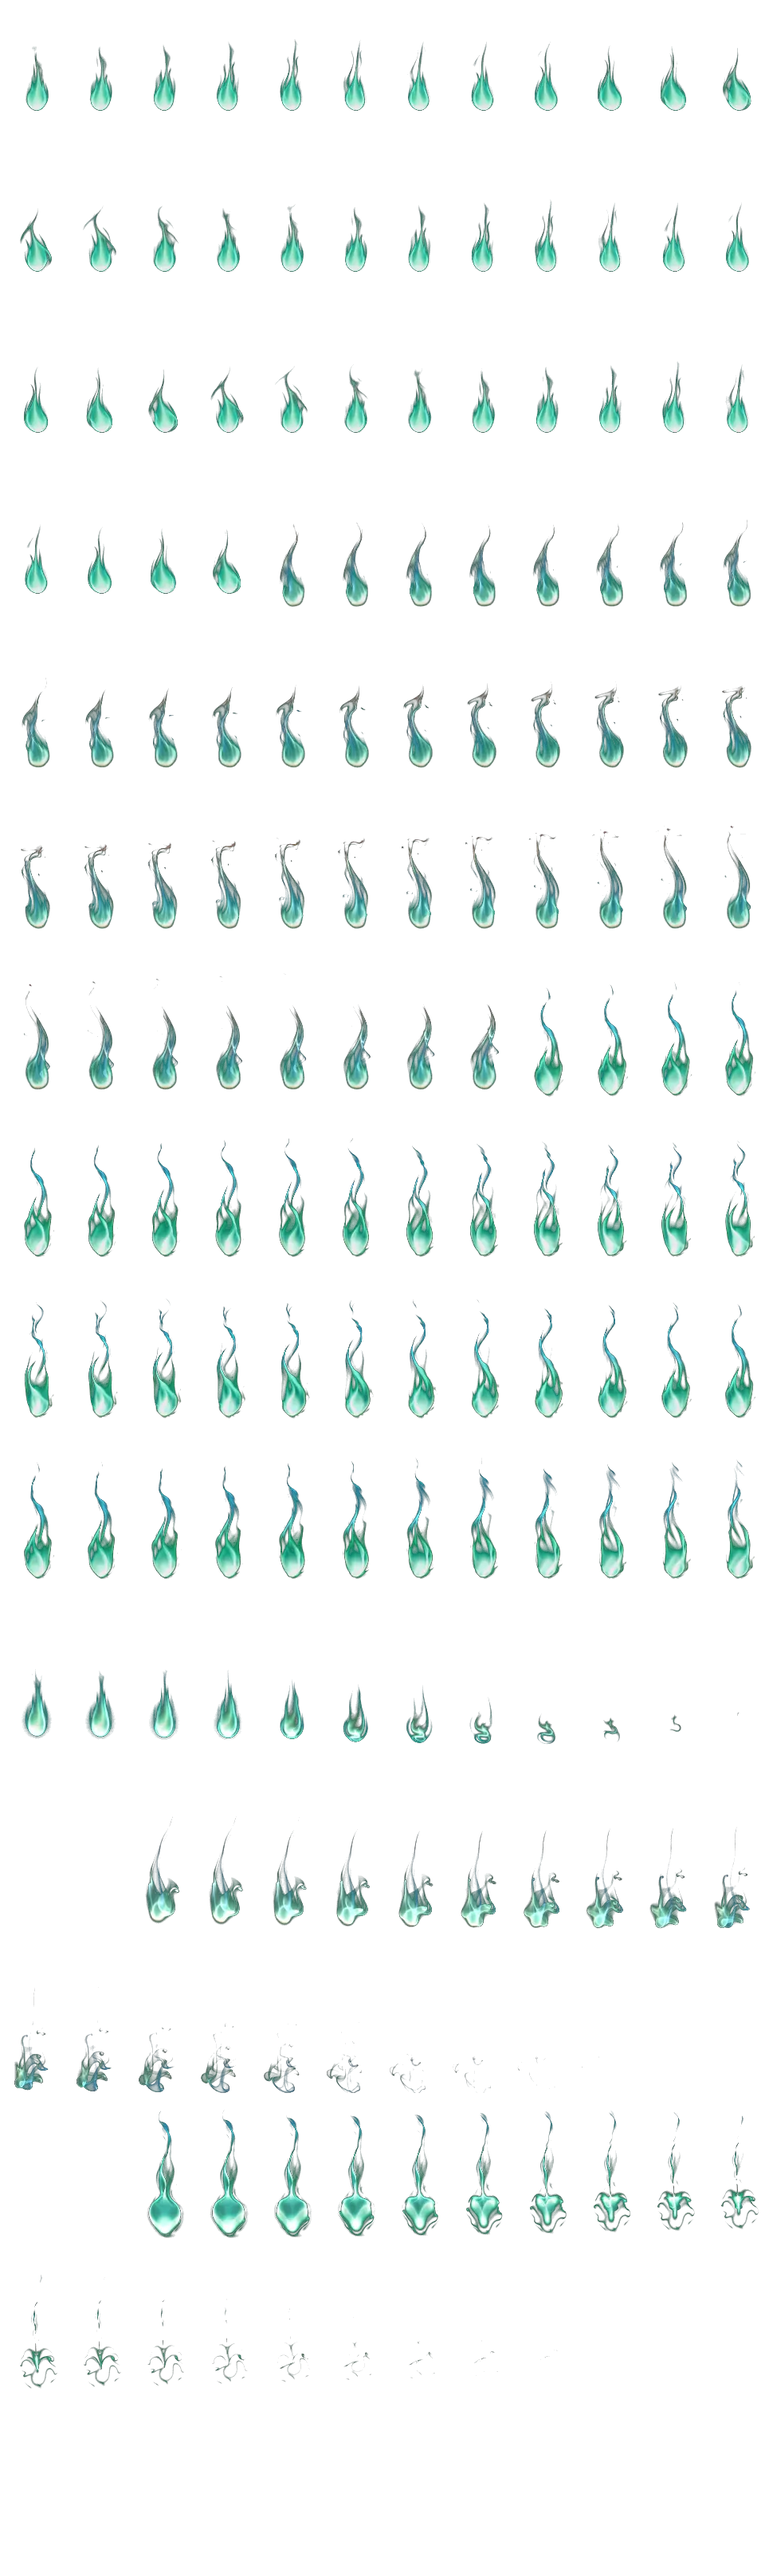
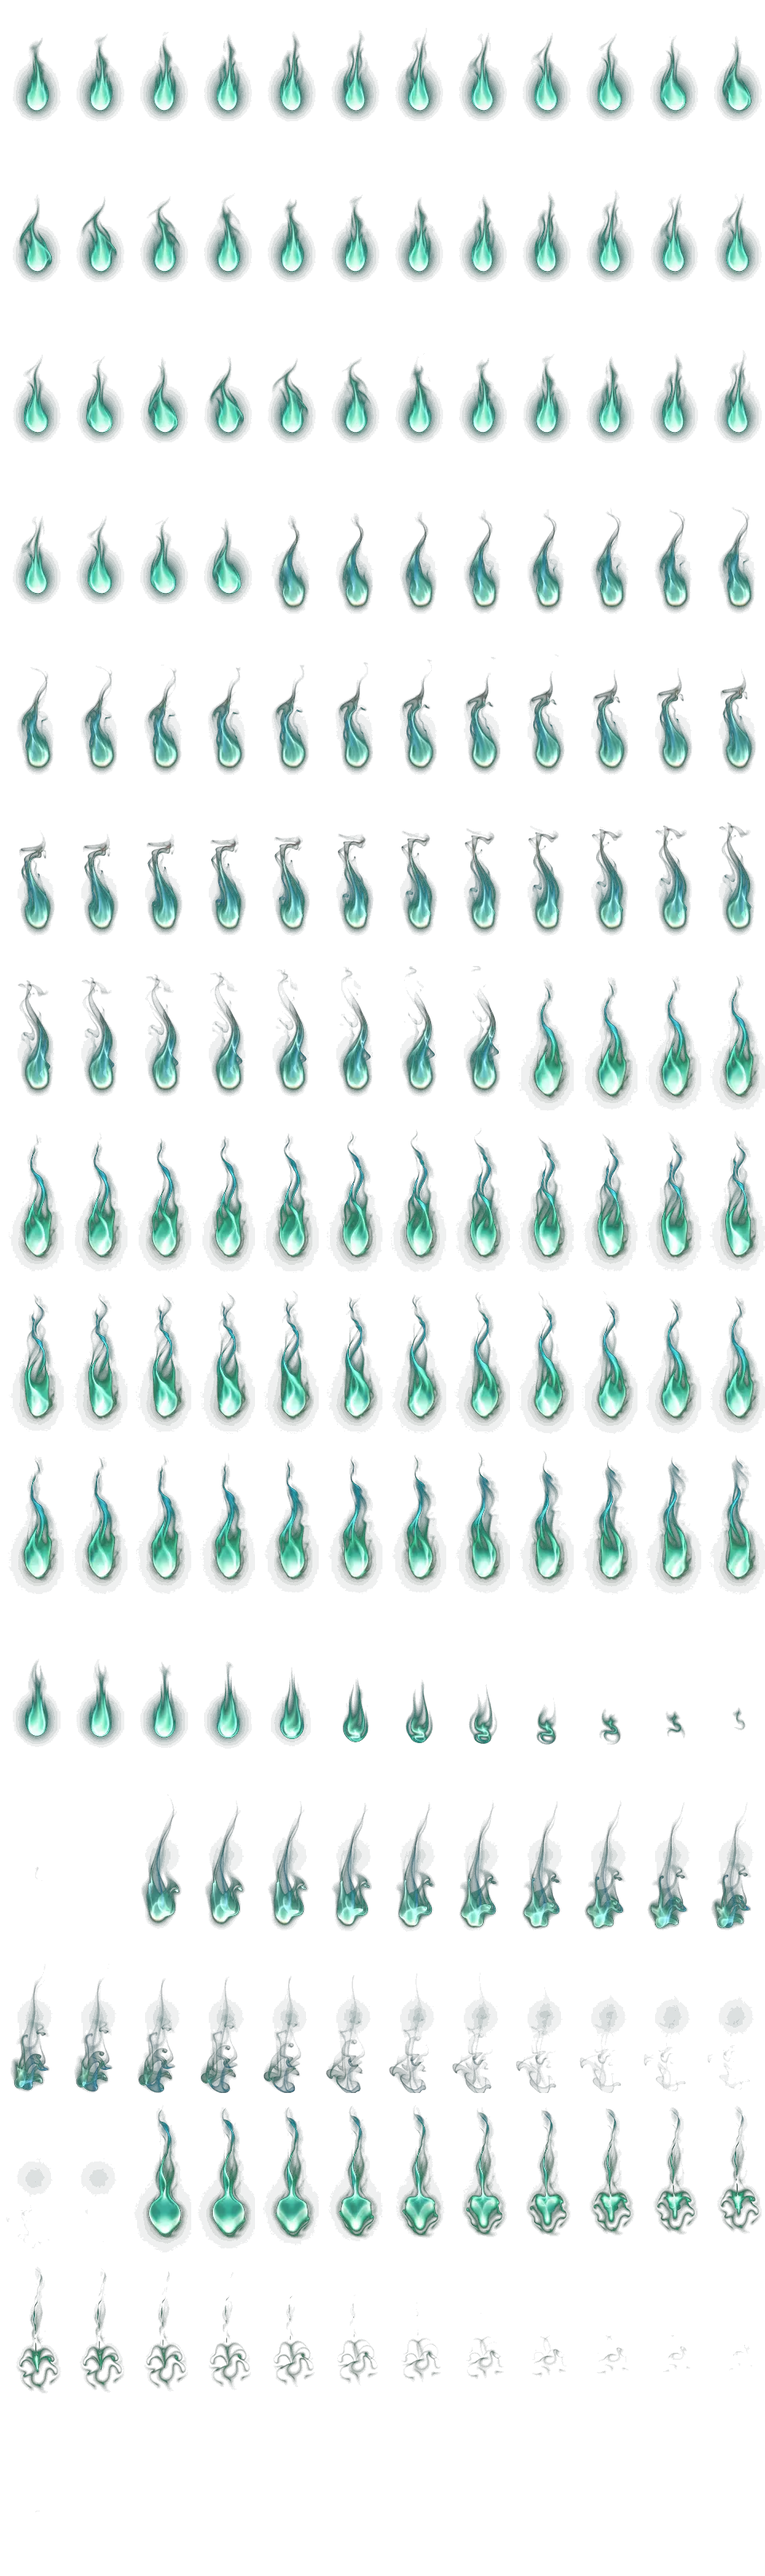
Flames: remove the grey trail puffs (the real smoke), restore soft glow; flames may drift through the upper empty areas and higher along the sides
Claude-Session: https://claude.ai/code/session_01U3oHwuga7h99Y96FKvzDg

diff --git a/web/public/ghost-ambience.js b/web/public/ghost-ambience.js
@@ -9,7 +9,7 @@ const EYE_D=[[.082,.085,1.1],[.26,.061,.7],[.463,.11,.8],[.735,.053,.9],[.919,.1
 const EYE_M=[[.12,.055,.8],[.5,.04,.6],[.88,.06,.85],[.28,.115,.75],[.74,.12,.7],[.5,.145,.55]];
 
 const EYE_SQLR=[[-0.176,87],[-0.127,88],[-0.09,89],[-0.028,90],[0.02,91],[0.05,92],[0.094,93],[0.147,94],[0.193,95],[0.243,96]]; // squinted eyes looking left..right: [pupil x, frame]
-const FL={fw:80,fh:202,cols:12,ok:false,img:new Image()};FL.img.onload=()=>{FL.ok=true;};FL.img.src='img/flames.webp?v=3'; // 3 ghost-flame forms (40-frame loops) + their matching dissolve clips
+const FL={fw:80,fh:202,cols:12,ok:false,img:new Image()};FL.img.onload=()=>{FL.ok=true;};FL.img.src='img/flames.webp?v=4'; // 3 ghost-flame forms (40-frame loops) + their matching dissolve clips
 const FL_DIS_BASE=[120,134,158],FL_DIS_N=[14,24,24];
 const EYE_GAZE=[[-0.019,0.152,21],[0.046,-0.104,22],[-0.228,0.081,23],[0.161,0.158,24],[0.032,0.027,25],[-0.144,0.162,26],[-0.107,0.066,27],[0.11,0.085,28],[0.069,0.183,29],[-0.048,0.23,30],[-0.042,-0.019,31],[-0.028,0.086,32],[0.041,0.1,33],[-0.076,0.121,34],[-0.091,0.189,35],[-0.037,0.038,36],[0.001,0.208,37],[-0.185,0.13,38],[-0.183,0.056,39],[0.072,0.137,40],[-0.126,0.117,41],[-0.04,0.189,42],[0.115,0.149,43],[0.14,0.193,44],[0.003,0.0,45],[-0.068,0.087,46],[-0.069,0.156,47],[-0.014,0.119,48],[0.032,0.139,49],[-0.075,0.036,50],[-0.183,0.162,51],[0.093,0.056,52],[0.056,0.071,53],[-0.132,0.045,54],[-0.007,0.064,55],[0.099,0.193,56],[-0.012,0.179,57],[0.016,0.115,58],[0.154,0.133,59],[-0.05,0.137,60]];const EYE_GC=[-0.021,0.144,0.194,0.168]; // gaze table: [pupil x, pupil y, frame] + centre/half-range
 const EYE_ATLAS={fw:256,fh:119,ok:false,img:new Image()};EYE_ATLAS.img.onload=()=>{EYE_ATLAS.ok=true;};EYE_ATLAS.img.src='img/eyes.webp';
@@ -76,11 +76,11 @@ class GhostAmbience extends HTMLElement{
     if(this.dataset.free!=='1')return true;
     const r=this.getBoundingClientRect();let n=document.elementFromPoint(r.left+x,r.top+y);if(!n)return true;
     for(;n&&n!==document.body&&n!==document.documentElement;n=n.parentElement){
-      if(/^(H1|H2|H3|P|SPAN|B|BUTTON|LABEL|INPUT|TEXTAREA|NAV|HEADER|TABLE|A)$/.test(n.tagName))return false;
+      if(/^(H1|H2|H3|P|SPAN|B|BUTTON|LABEL|INPUT|TEXTAREA|TABLE|A)$/.test(n.tagName))return false; // NAV / HEADER are only containers: their empty space is free too
       const bg=getComputedStyle(n).backgroundColor;if(bg&&bg!=='transparent'&&!/rgba\([^)]*,\s*0\)$/.test(bg))return false;}
     return true;}
-  freeSpot(){const w=this.w,h=this.h,T=Math.min(h-40,+(this.dataset.top||0))+20; // bottom-heavy, only where no panel covers it
-    for(let i=0;i<24;i++){const y=T+(h-T-10)*(1-Math.pow(Math.random(),2.2)),x=rnd(.03,.97)*w;if(this.isFree(x,y)&&this.isFree(x,y-24))return{x,y};}
+  freeSpot(){const w=this.w,h=this.h,T=Math.min(h-40,16); // anywhere no panel covers it, a little more toward the bottom
+    for(let i=0;i<30;i++){const y=T+(h-T-10)*(1-Math.pow(Math.random(),1.5)),x=rnd(.03,.97)*w;if(this.isFree(x,y)&&this.isFree(x,y-24))return{x,y};}
     return{x:rnd(.03,.97)*w,y:h-rnd(6,30)};}
   rawSpot(){const w=this.w,h=this.h;
     const k=this.keepRect(),T=Math.min(h-20,+(this.dataset.top||0)),pad=12;
@@ -98,7 +98,7 @@ class GhostAmbience extends HTMLElement{
     const n=this.mode==='screen'?(this.mob?3:5):login?0:(this.mob?1:2);
     this.flames=Array.from({length:n},(_,i)=>{const z=rnd(.3,1),size=login?(this.mob?10+z*13:13+z*19):(this.mob?9+z*8:11+z*11);
       return{...this.spot(),form:Math.floor(rnd(0,3)),ft:0,z,size,seed:rnd(0,100),bobA:rnd(5,13),bobS:rnd(.35,.7),swA:rnd(2,6),swS:rnd(.5,1.1),phase:'on',a:login?1:.9,timer:rnd(4,16),dip:0,lean:0,rise:this.mode==='page'?rnd(5,10):rnd(12,26),
-        trail:login&&i<2?[]:null,trailT:0};}).sort((a,b)=>a.z-b.z);
+        trail:null,trailT:0};}).sort((a,b)=>a.z-b.z);
     const slots=this.mode==='login'?(this.mob?EYE_M:EYE_D):[]; // no eyes inside the app pages for now
     this.eyes=slots.map(([x,y,s,r])=>({nx:x,ny:y,s:s?s*.85:rnd(.8,1.15),red:s?!!r:Math.random()<.35,ang:0,sq:0,dw:0,near:false,tilt:rnd(.06,.16),state:'closed',open:0,t:0,hold:0,blink:0,lx:0,ly:0}));
     if(this.mode==='login'&&this.eyes.length&&this.dataset.ok!=='1'){const n0=this.mob?3:4;const pick=[];this.eyes.slice().sort(()=>Math.random()-.5).forEach(e=>{if(pick.length<n0&&!pick.some(o=>this.eyeHit(e,o)))pick.push(e);});pick.forEach(e=>{e.state='opening';e.open=-rnd(0,.45);e.t=0;e.hold=rnd(2.5,5);e.blink=rnd(.8,e.hold-.5);});}
@@ -130,7 +130,7 @@ class GhostAmbience extends HTMLElement{
       else if(f.phase==='in'){f.a+=dt*.7;if(f.a>=1){f.a=1;f.phase='on';f.timer=rnd(6,18);}}
       if(Math.random()<dt*.18)f.dip=1;f.dip=Math.max(0,f.dip-dt*2.6);
       if(f.rise){f.y-=f.rise*dt; // drift upward; fade out near the top or when touching the big screen's content
-        const top=this.mode==='page'?16:this.mode==='login'?h*.04:Math.min(h-20,+(this.dataset.top||0))+12;
+        const top=this.mode==='page'?16:this.mode==='login'?h*.04:this.dataset.free==='1'?10:Math.min(h-20,+(this.dataset.top||0))+12;
         if(f.phase==='on'&&(f.y-f.size<top||(this.mode==='screen'&&this.inKeep(f.x,f.y-f.size*1.5,0))))f.phase='fade';
         if(f.phase==='on'&&this.dataset.free==='1'&&(f.chk=(f.chk||rnd(0,.4))-dt)<0){f.chk=.4;if(!this.isFree(f.x,f.y-f.size))f.phase='fade';}}
     }
